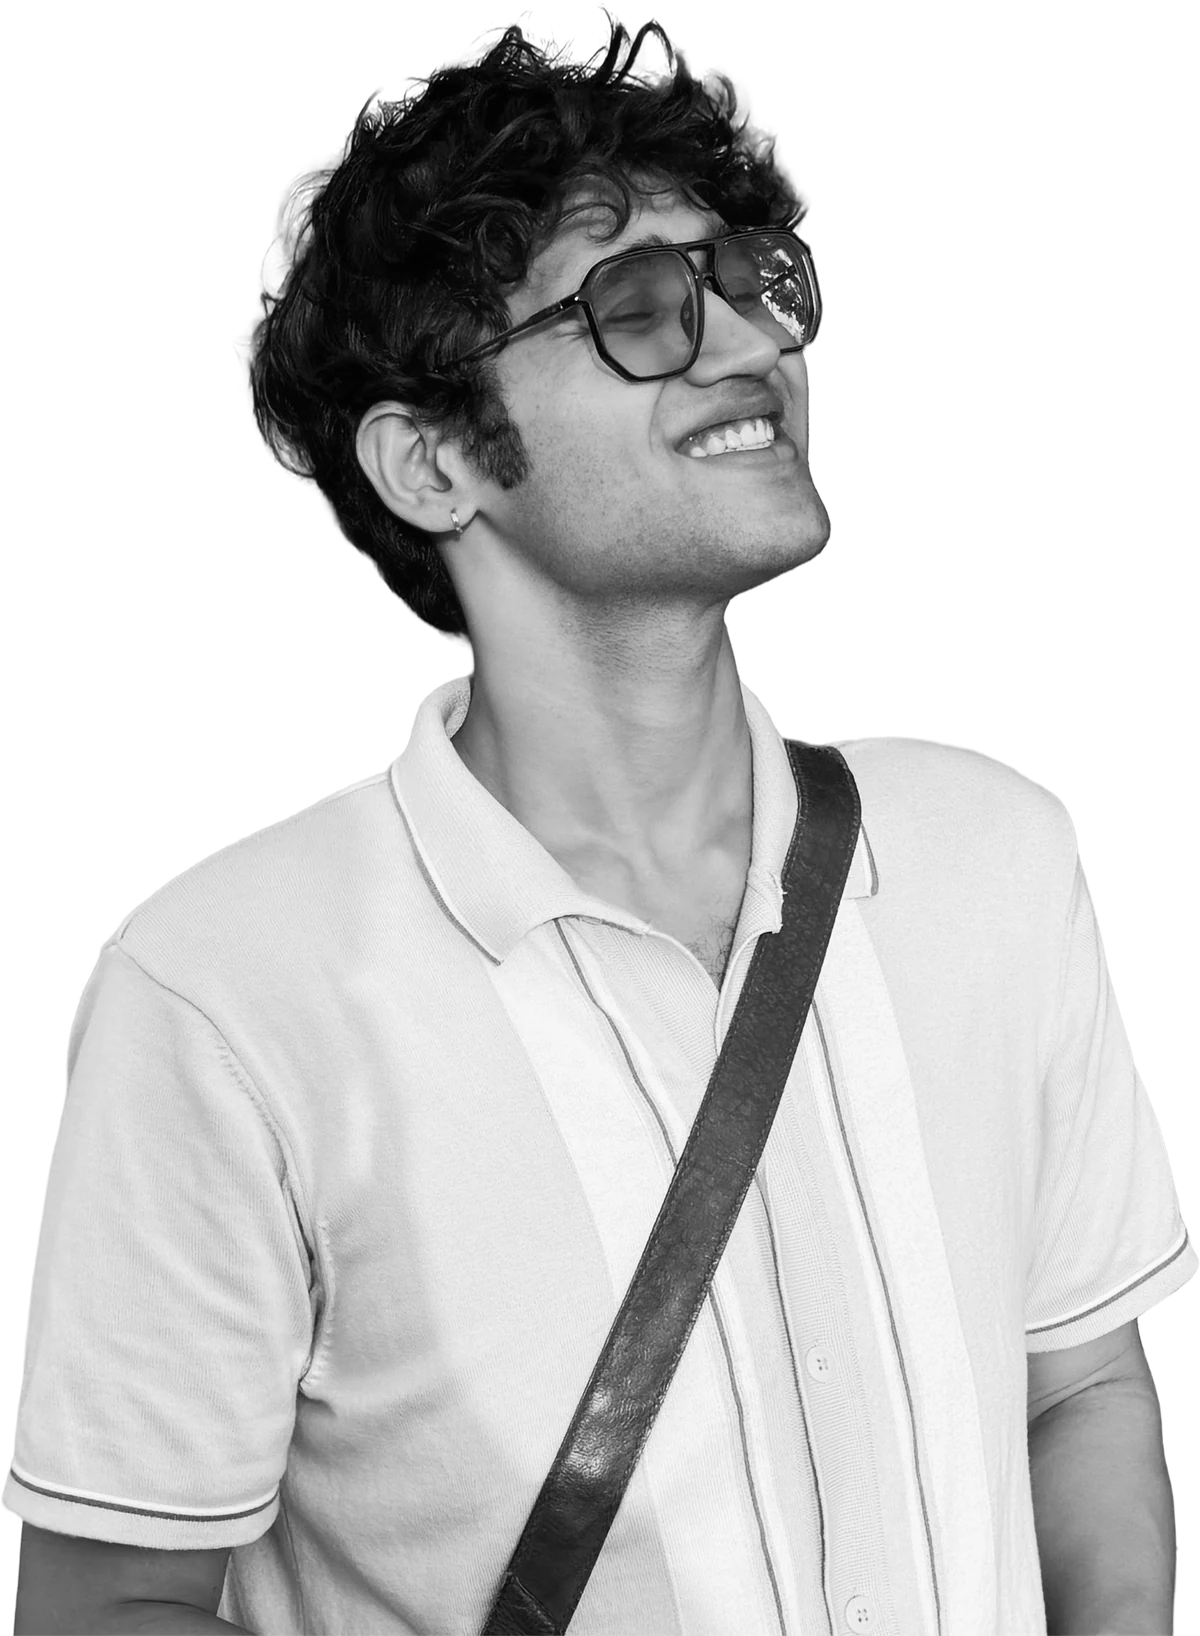
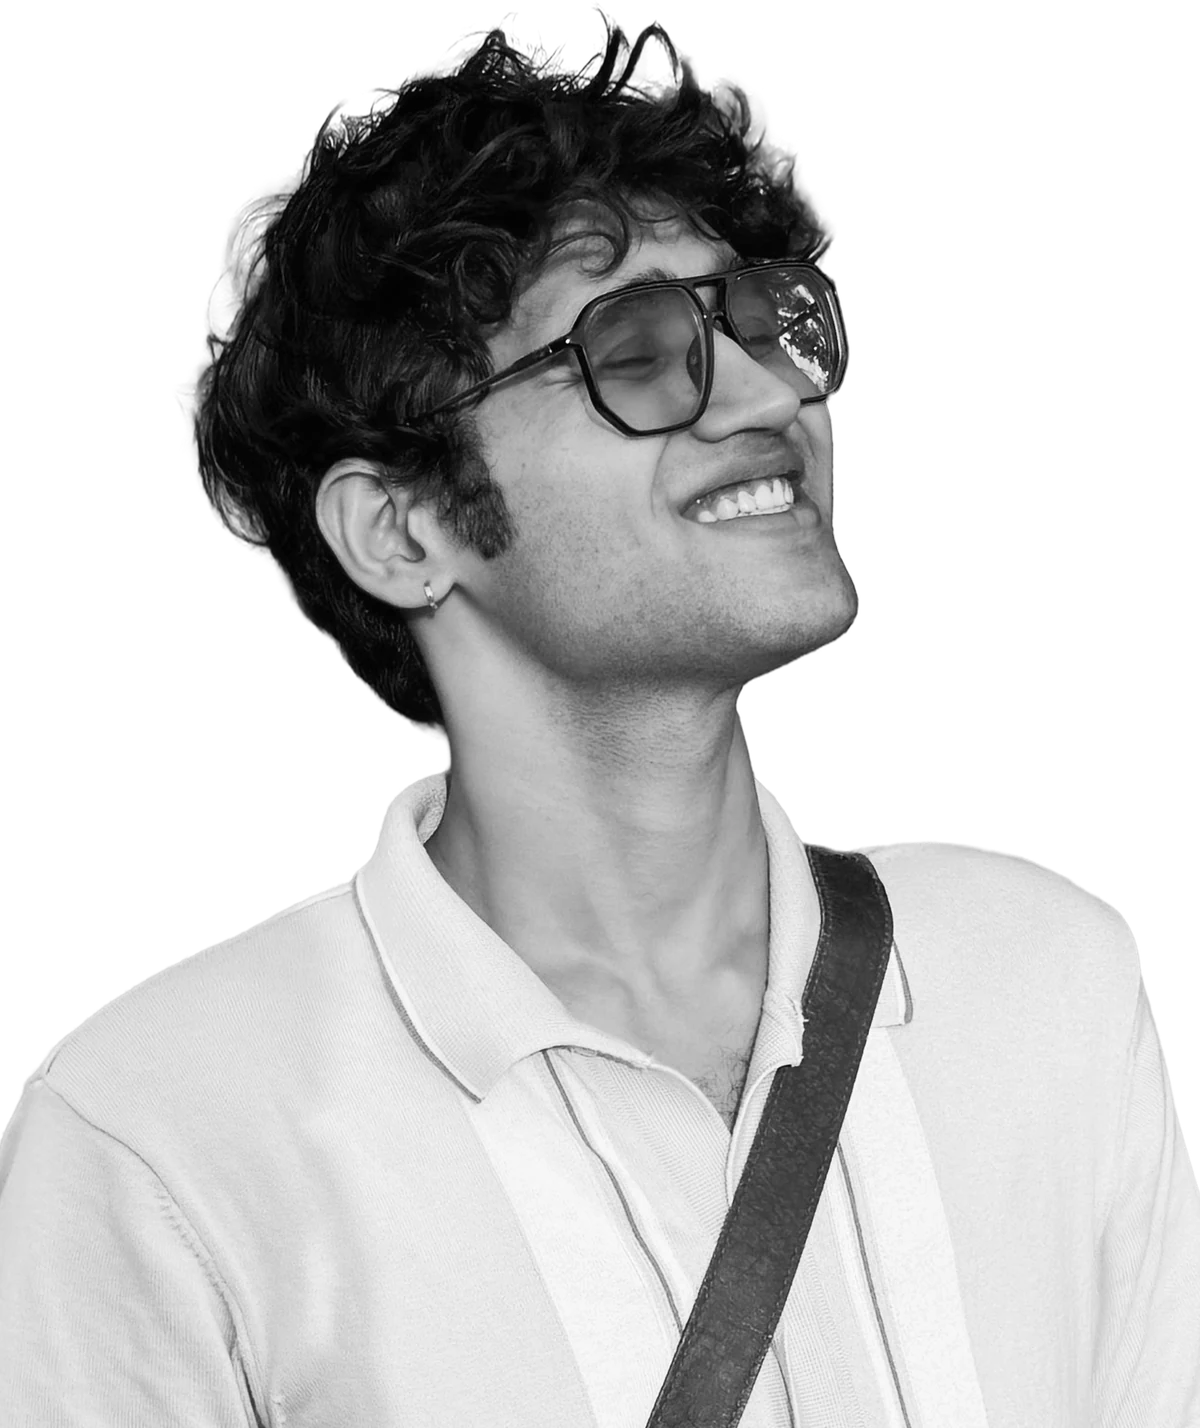
Hero: closer portrait, a still band of work, skill cards with dotted lines
- Closer crop (head and shoulders) from the original photo.
- WorkHalo replaces the orbit: a still, wide arc of six short clips of
  real work (CBS, ekai, a Rive prototype, an app flow) at eye level
  either side of the face, which stays clear. Sharper 6px corners.
  Panels resolve out of a blur on load; clips play only on screen.
- SkillCards: the four skill cards float in the open sky either side,
  each tied to the band by a dotted line measured from the real layout
  (wide screens); a 2x2 grid on smaller screens.

Claude-Session: https://claude.ai/code/session_01VGap9PB46PFKRp1kVfMuiu

diff --git a/src/components/HeroSection.tsx b/src/components/HeroSection.tsx
@@ -1,13 +1,25 @@
 import { motion, useReducedMotion } from 'framer-motion';
-import { useEffect, useState } from 'react';
+import { useEffect, useRef, useState } from 'react';
 import { PortraitInSky } from './hero/PortraitInSky';
-import { OrbitRing } from './hero/OrbitRing';
+import { WorkHalo, type HaloClip } from './hero/WorkHalo';
+import { SkillCards, SkillGrid } from './hero/SkillCards';
 import { COMPANIES, type Company } from './hero/tools';
 
 const EASE = [0.22, 1, 0.36, 1] as const;
 
-// The portrait (transparent background) and where the head sits in it, for the ring.
-const PORTRAIT = { src: '/hero/portrait.webp', aspect: 1200 / 1636, head: [0.48, 0.24] as [number, number] };
+// The portrait (transparent background, head and shoulders) and where the head sits in it.
+const PORTRAIT = { src: '/hero/portrait.webp', aspect: 1200 / 1428, head: [0.45, 0.3] as [number, number] };
+
+// The work around the head: short clips of real projects.
+const P = '/hero/posters/';
+const CLIPS: HaloClip[] = [
+  { src: '/videos/2dark.mp4', poster: P + '2dark.jpg', label: 'Cross Border Supps: the storefront on mobile' },
+  { src: '/work/ekai/b4LEGCUCaclrfhX51x9RUiUasM.mp4', poster: P + 'b4LEGCUCaclrfhX51x9RUiUasM.jpg', label: 'ekai: the website' },
+  { src: '/videos/1dark.mp4', poster: P + '1dark.jpg', label: 'An interactive Rive prototype' },
+  { src: '/videos/1light.mp4', poster: P + '1light.jpg', label: 'A body-profile app flow' },
+  { src: '/work/ekai/qJlWawcCzXTwNSh3ZDbm19udE.mp4', poster: P + 'qJlWawcCzXTwNSh3ZDbm19udE.jpg', label: 'ekai: the platform diagram' },
+  { src: '/videos/2light.mp4', poster: P + '2light.jpg', label: 'ekai joining a meeting' },
+];
 
 export const HeroSection = ({ onRevealStepChange }: { onRevealStepChange?: (step: number) => void }) => {
   const reduce = useReducedMotion();
@@ -16,6 +28,8 @@ export const HeroSection = ({ onRevealStepChange }: { onRevealStepChange?: (step
   useEffect(() => { try { sessionStorage.setItem('introSeen', '1'); } catch { /* private mode */ } }, []);
   const instant = skipIntro || !!reduce;
   const [staged, setStaged] = useState(instant);
+  const wrapRef = useRef<HTMLDivElement>(null);
+  const stageRef = useRef<HTMLDivElement>(null);
 
   useEffect(() => {
     // the rest of the page and the nav don't wait for the intro
@@ -33,7 +47,7 @@ export const HeroSection = ({ onRevealStepChange }: { onRevealStepChange?: (step
   return (
     <section className="hero-poster relative w-full overflow-hidden">
       {/* No navbar over the hero: the page opens on the poster itself. */}
-      <div className="relative mx-auto flex w-full max-w-[1360px] flex-col items-center px-5 pt-12 text-center md:px-10 md:pt-14">
+      <div ref={wrapRef} className="relative mx-auto flex w-full max-w-[1360px] flex-col items-center px-5 pt-12 text-center md:px-10 md:pt-14">
 
         {/* The type, centred */}
         <div className="relative z-30 flex flex-col items-center">
@@ -55,20 +69,25 @@ export const HeroSection = ({ onRevealStepChange }: { onRevealStepChange?: (step
           </motion.div>
         </div>
 
-        {/* Me, standing in the sky, with what I make orbiting */}
+        {/* Me, standing in the sky, with the work around my head */}
         <div
-          className="relative z-10 mt-4 [--stage-w:88vw] sm:[--stage-w:60vw] lg:[--stage-w:min(500px,38vw)]"
+          ref={stageRef}
+          className="relative z-10 mt-4 [--stage-w:74vw] sm:[--stage-w:56vw] lg:[--stage-w:min(540px,38vw)]"
           style={{ width: 'var(--stage-w)', height: `calc(var(--stage-w) / ${PORTRAIT.aspect})` }}
         >
           <PortraitInSky src={PORTRAIT.src} alt="Keerthi Vardhan laughing, head tilted back, in a white shirt" shown={staged} className="absolute inset-0 h-full w-full" />
-          <OrbitRing head={PORTRAIT.head} shown={staged} className="pointer-events-none absolute inset-0 z-20" />
+          <WorkHalo clips={CLIPS} head={PORTRAIT.head} shown={staged} className="pointer-events-none absolute inset-0 z-20" />
         </div>
 
-        {/* Worked with: sitting on the cloud bank. No visible label; screen readers get one. */}
+        {/* What I make: floating beside me on wide screens, tied to the work by dotted lines */}
+        <SkillCards container={wrapRef} stage={stageRef} head={PORTRAIT.head} shown={staged} />
+        <SkillGrid shown={staged} />
+
+        {/* Worked with. No visible label; screen readers get one. */}
         <motion.ul
           {...rise(0.6)}
           aria-label="Companies I've worked with"
-          className="relative z-30 -mt-[calc(var(--stage-w)*0.28)] grid w-full max-w-[1100px] grid-cols-3 items-center justify-items-center gap-x-6 gap-y-6 pb-14 [--stage-w:88vw] sm:[--stage-w:60vw] md:flex md:justify-between lg:[--stage-w:min(500px,38vw)]"
+          className="relative z-30 mt-10 grid w-full max-w-[1100px] grid-cols-3 items-center justify-items-center gap-x-6 gap-y-6 pb-14 md:flex md:justify-between lg:-mt-16"
         >
           {COMPANIES.map(c => <CompanyLogo key={c.name} c={c} />)}
         </motion.ul>

diff --git a/src/components/hero/SkillCards.tsx b/src/components/hero/SkillCards.tsx
@@ -1,0 +1,96 @@
+import { useLayoutEffect, useRef, useState, type RefObject } from 'react';
+import { TOOLS, type Tool } from './tools';
+
+/**
+ * The four skill cards floating in the open sky either side of the portrait,
+ * each tied to the work around the head by a dotted line (wide screens).
+ * On smaller screens they sit in a 2x2 grid with no lines.
+ */
+
+const CHIPS = ['linear-gradient(135deg,#f0ffc4,#c9ef6f)', 'linear-gradient(135deg,#efe6ff,#c4adff)', 'linear-gradient(135deg,#ffe7d6,#ffb68a)', 'linear-gradient(135deg,#dcf2ff,#93d2f5)'];
+
+// where each card floats (wide screens), and which side of the head its line goes to
+const PLACE = [
+  { cls: 'left-[2%] top-[30%] -rotate-[2deg]', side: -1, dy: -0.1 },
+  { cls: 'right-[2%] top-[28%] rotate-[2deg]', side: 1, dy: -0.1 },
+  { cls: 'left-[5%] top-[72%] rotate-[1.5deg]', side: -1, dy: 0.08 },
+  { cls: 'right-[5%] top-[70%] -rotate-[1.5deg]', side: 1, dy: 0.06 },
+];
+
+function Card({ t, i, className = '', innerRef, shown }: { t: Tool; i: number; className?: string; innerRef?: (el: HTMLDivElement | null) => void; shown: boolean }) {
+  return (
+    <div
+      ref={innerRef}
+      className={`w-full rounded-[14px] border border-white/80 bg-white/80 p-4 text-left text-ink shadow-[0_20px_44px_-24px_rgba(15,30,55,0.5)] backdrop-blur-md lg:w-[208px] ${className}`}
+      style={{ opacity: shown ? 1 : 0, filter: shown ? 'blur(0)' : 'blur(10px)', transition: `opacity 800ms ease ${900 + i * 150}ms, filter 800ms ease ${900 + i * 150}ms` }}
+    >
+      <span className="flex h-8 w-8 items-center justify-center rounded-[9px] text-ink/80" style={{ background: CHIPS[i % CHIPS.length] }}>
+        {t.tools[0].mark}
+        <span className="sr-only">{t.tools.map(x => x.name).join(', ')}</span>
+      </span>
+      <div className="mt-3 text-[17px] font-semibold leading-tight tracking-[-0.01em]">{t.makes}</div>
+      <p className="mt-1 text-[12.5px] leading-snug text-ink/55">{t.detail}</p>
+    </div>
+  );
+}
+
+export function SkillCards({ container, stage, head, shown }: {
+  container: RefObject<HTMLElement>; stage: RefObject<HTMLElement>; head: [number, number]; shown: boolean;
+}) {
+  const cards = useRef<(HTMLDivElement | null)[]>([]);
+  const [paths, setPaths] = useState<{ d: string; x: number; y: number }[]>([]);
+
+  // draw each dotted line from the card's inner edge to the band beside the head
+  useLayoutEffect(() => {
+    const measure = () => {
+      const c = container.current, s = stage.current;
+      if (!c || !s || !window.matchMedia('(min-width: 1024px)').matches) { setPaths([]); return; }
+      const cr = c.getBoundingClientRect(), sr = s.getBoundingClientRect();
+      const hx = sr.left - cr.left + sr.width * head[0], hy = sr.top - cr.top + sr.height * head[1];
+      setPaths(PLACE.map((p, i) => {
+        const el = cards.current[i];
+        if (!el) return { d: '', x: 0, y: 0 };
+        const r = el.getBoundingClientRect();
+        const x0 = (p.side < 0 ? r.right : r.left) - cr.left, y0 = r.top - cr.top + r.height / 2;
+        const x1 = hx + p.side * sr.width * 0.68, y1 = hy + sr.width * p.dy;
+        const mx = (x0 + x1) / 2;
+        return { d: `M${x0},${y0} C${mx},${y0} ${mx},${y1} ${x1},${y1}`, x: x1, y: y1 };
+      }));
+    };
+    measure();
+    const ro = new ResizeObserver(measure);
+    if (container.current) ro.observe(container.current);
+    if (stage.current) ro.observe(stage.current);
+    document.fonts?.ready.then(measure);
+    return () => ro.disconnect();
+  }, [container, stage, head]);
+
+  return (
+    <>
+      {/* wide screens: floating, with dotted connectors */}
+      <svg aria-hidden className="pointer-events-none absolute inset-0 z-20 hidden h-full w-full overflow-visible lg:block"
+        style={{ opacity: shown ? 1 : 0, transition: 'opacity 1s ease 1.4s' }}>
+        {paths.map((p, i) => p.d && (
+          <g key={i}>
+            <path d={p.d} fill="none" stroke="rgb(var(--ink-rgb) / 0.5)" strokeWidth="1.5" strokeDasharray="0.5 6" strokeLinecap="round" />
+            <circle cx={p.x} cy={p.y} r="3" fill="rgb(var(--ink-rgb) / 0.45)" />
+          </g>
+        ))}
+      </svg>
+      {TOOLS.map((t, i) => (
+        <div key={t.makes} className={`absolute z-30 hidden lg:block ${PLACE[i].cls}`}>
+          <Card t={t} i={i} shown={shown} innerRef={el => { cards.current[i] = el; }} />
+        </div>
+      ))}
+    </>
+  );
+}
+
+/** Smaller screens: the same cards in a 2x2 grid. */
+export function SkillGrid({ shown }: { shown: boolean }) {
+  return (
+    <div className="relative z-30 mt-6 grid w-full max-w-[560px] grid-cols-2 gap-3 lg:hidden">
+      {TOOLS.map((t, i) => <Card key={t.makes} t={t} i={i} shown={shown} />)}
+    </div>
+  );
+}

diff --git a/src/components/hero/WorkHalo.tsx b/src/components/hero/WorkHalo.tsx
@@ -1,0 +1,68 @@
+import { useEffect, useRef } from 'react';
+
+/**
+ * A still, curved band of the work around the head: short looping clips of
+ * real projects, set in 3D on an arc that wraps behind the head and leaves
+ * the face clear. Nothing orbits; on load the panels resolve one by one out
+ * of a blur. Clips only play while the hero is on screen.
+ *
+ * Sized from the CSS variable --stage-w set by the parent.
+ */
+
+export type HaloClip = { src: string; poster: string; label: string };
+
+// angle around the head (0 = facing you; the face sits at 0, so nothing goes near it),
+// and height relative to the eyes, as a fraction of --stage-w
+// A wide arc at eye level: three panels each side of the face, spreading outwards,
+// each turned a little more (ry) and set a little smaller (k), so the strip reads as
+// curving round the head without stacking up. x, y are offsets from the head centre,
+// as fractions of --stage-w (y rises slightly towards the outside).
+const SLOTS: { x: number; y: number; ry: number; k: number }[] = [
+  { x: -0.42, y: 0.03, ry: -16, k: 1 }, { x: 0.42, y: 0.03, ry: 16, k: 1 },
+  { x: -0.68, y: -0.01, ry: -26, k: 0.94 }, { x: 0.68, y: -0.01, ry: 26, k: 0.94 },
+  { x: -0.92, y: -0.06, ry: -36, k: 0.88 }, { x: 0.92, y: -0.06, ry: 36, k: 0.88 },
+];
+
+export function WorkHalo({ clips, head, shown, className }: { clips: HaloClip[]; head: [number, number]; shown: boolean; className?: string }) {
+  const ref = useRef<HTMLDivElement>(null);
+
+  // play only while on screen
+  useEffect(() => {
+    const el = ref.current!;
+    const reduce = window.matchMedia('(prefers-reduced-motion: reduce)').matches;
+    const io = new IntersectionObserver(es => {
+      const on = es.some(e => e.isIntersecting) && !reduce;
+      el.querySelectorAll('video').forEach(v => { if (on) v.play().catch(() => {}); else v.pause(); });
+    }, { threshold: 0.05 });
+    io.observe(el);
+    return () => io.disconnect();
+  }, []);
+
+  return (
+    <div ref={ref} className={className} style={{ perspective: '1400px', perspectiveOrigin: `${head[0] * 100}% ${head[1] * 100}%` }} role="group" aria-label="Recent work">
+      {/* the band's centre sits on the head; a slight tilt makes it read as a curve */}
+      <div className="absolute h-0 w-0" style={{ left: `${head[0] * 100}%`, top: `${head[1] * 100}%`, transformStyle: 'preserve-3d', transform: 'rotateZ(-6deg)' }}>
+        {clips.slice(0, SLOTS.length).map((c, i) => {
+          const { x, y, ry, k } = SLOTS[i];
+          const away = Math.abs(x) > 0.8;                      // the outermost pair: a touch softer
+          return (
+            <figure
+              key={c.src}
+              className="absolute m-0 overflow-hidden rounded-[6px] border border-white/70 bg-white shadow-[0_16px_34px_-16px_rgba(15,30,55,0.55)]"
+              style={{
+                width: 'calc(var(--stage-w) * 0.27)', height: 'calc(var(--stage-w) * 0.18)',
+                left: `calc(var(--stage-w) * ${(x - 0.135).toFixed(3)})`, top: `calc(var(--stage-w) * ${(y - 0.09).toFixed(3)})`,
+                transform: `rotateY(${ry}deg) scale(${k})`,
+                opacity: shown ? (away ? 0.85 : 1) : 0,
+                filter: shown ? (away ? 'blur(0.6px)' : 'blur(0)') : 'blur(14px)',
+                transition: `opacity 900ms ease ${200 + i * 140}ms, filter 900ms ease ${200 + i * 140}ms`,
+              }}
+            >
+              <video src={c.src} poster={c.poster} muted loop playsInline preload="metadata" aria-label={c.label} className="h-full w-full object-cover" />
+            </figure>
+          );
+        })}
+      </div>
+    </div>
+  );
+}
